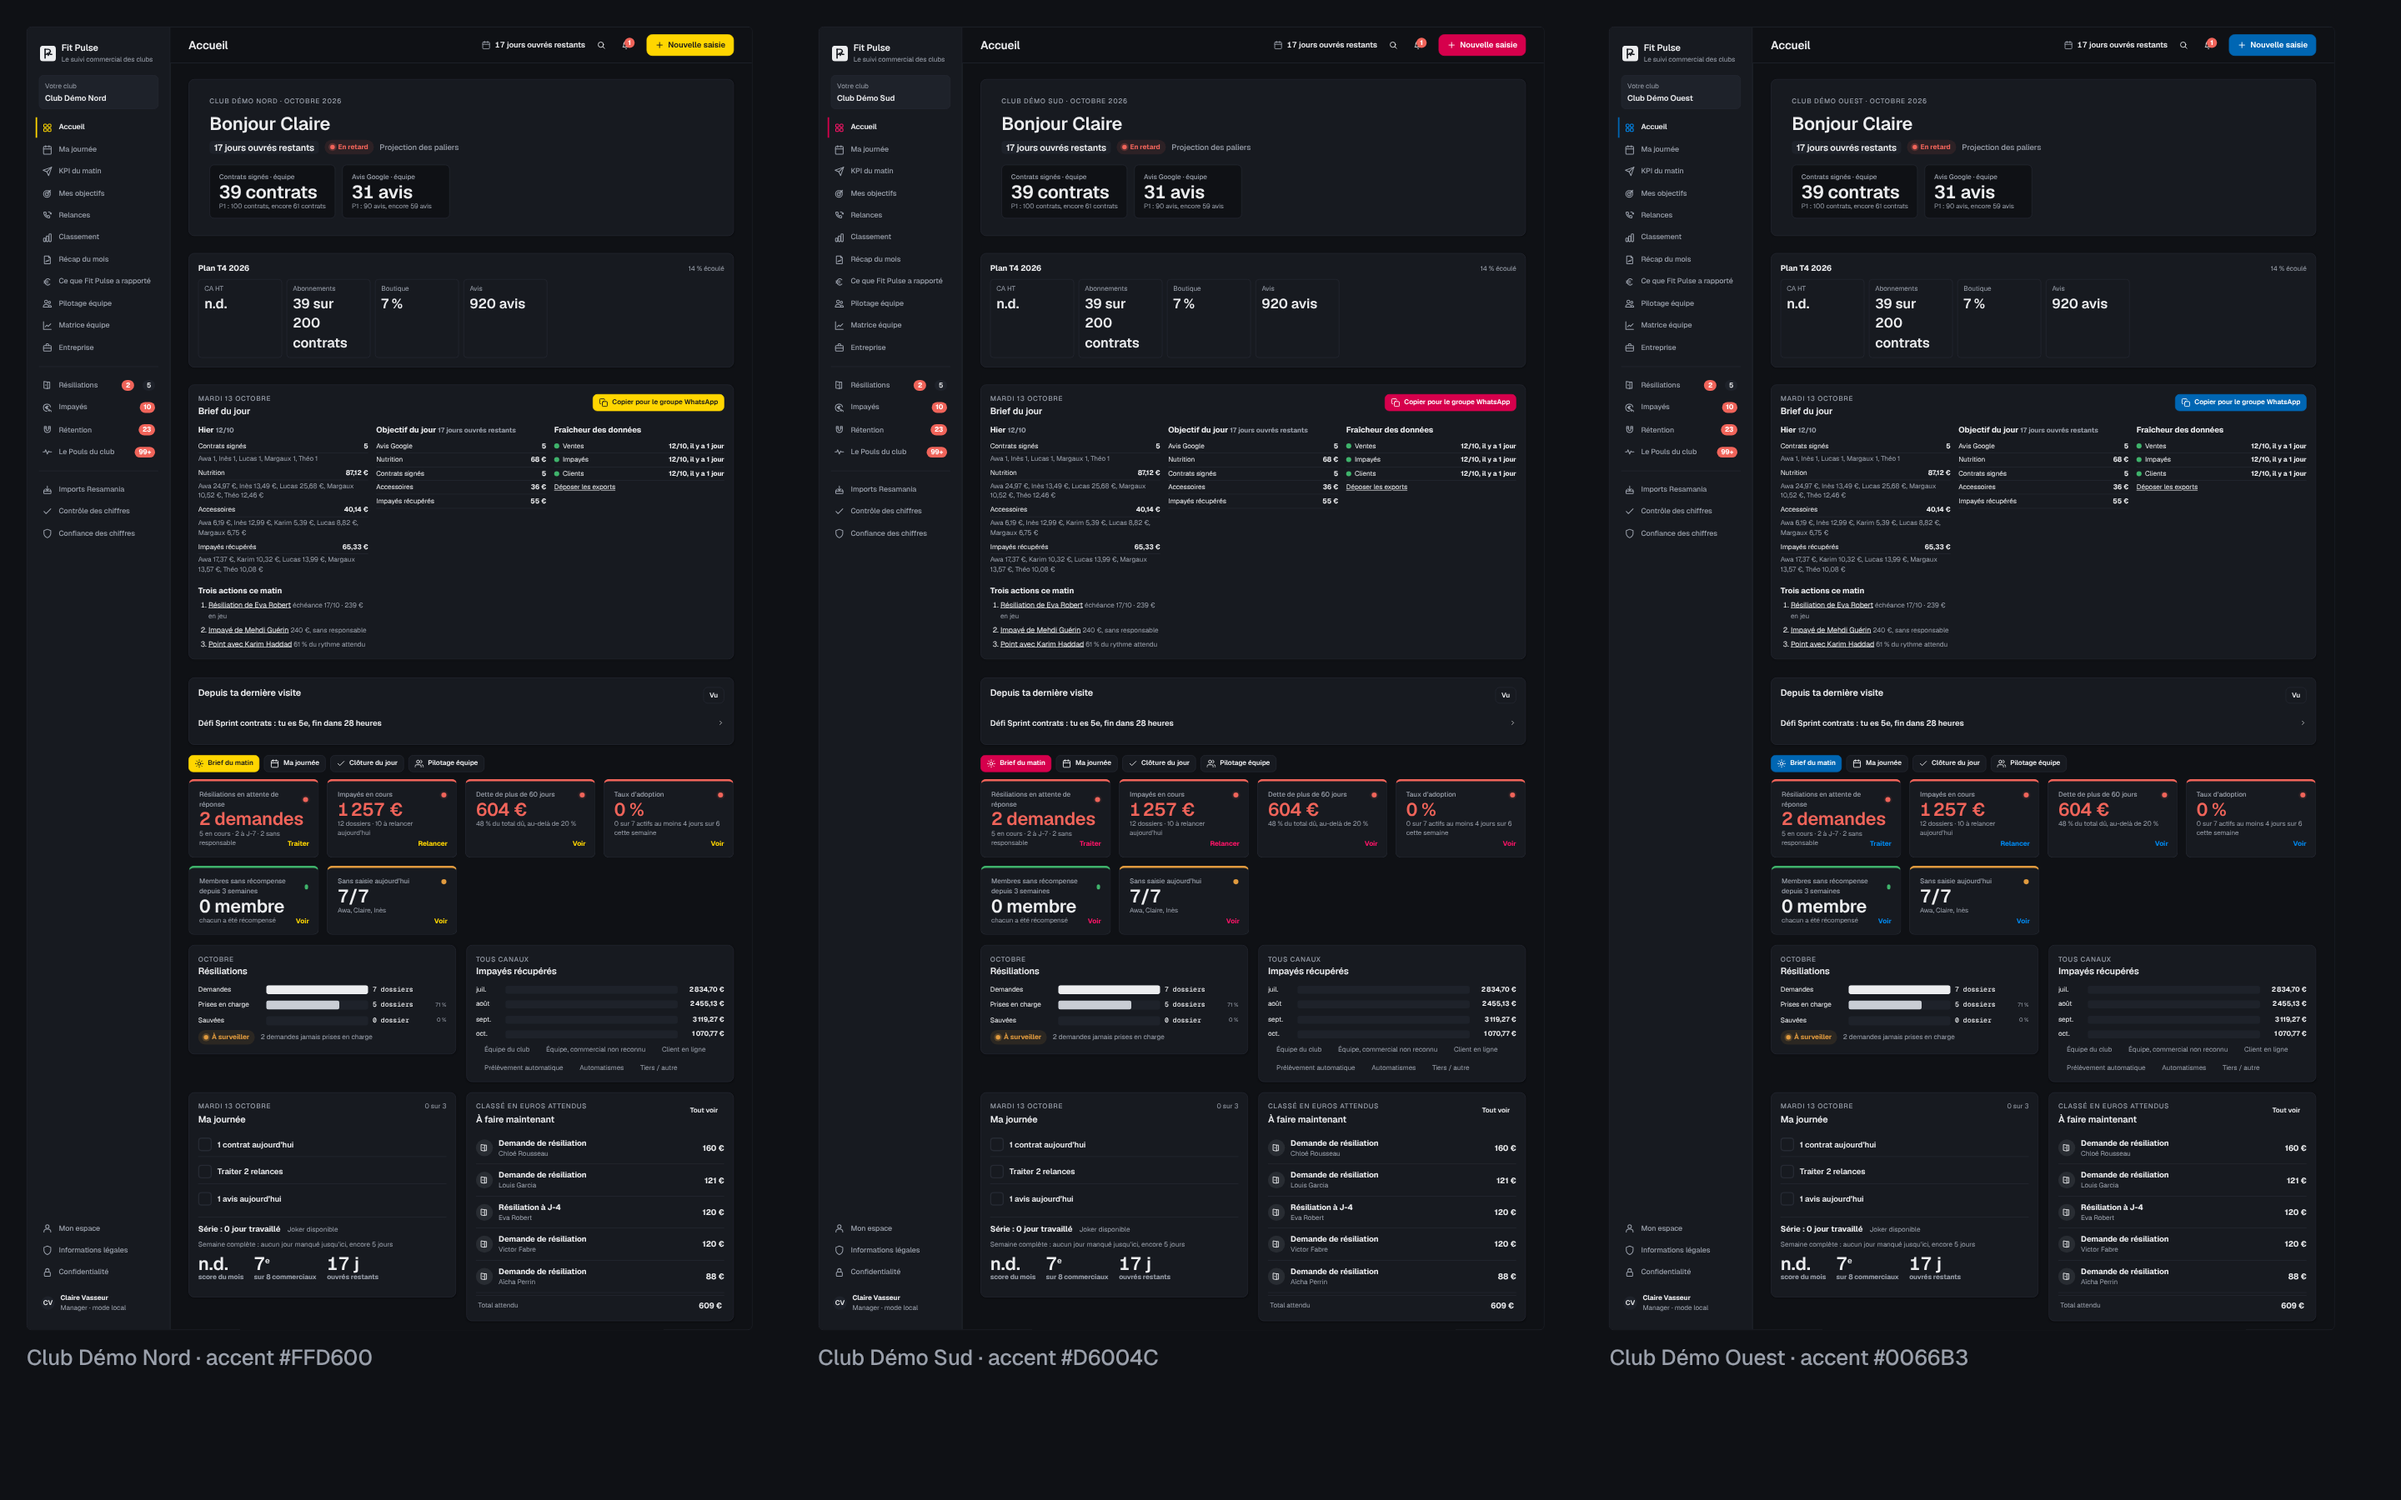
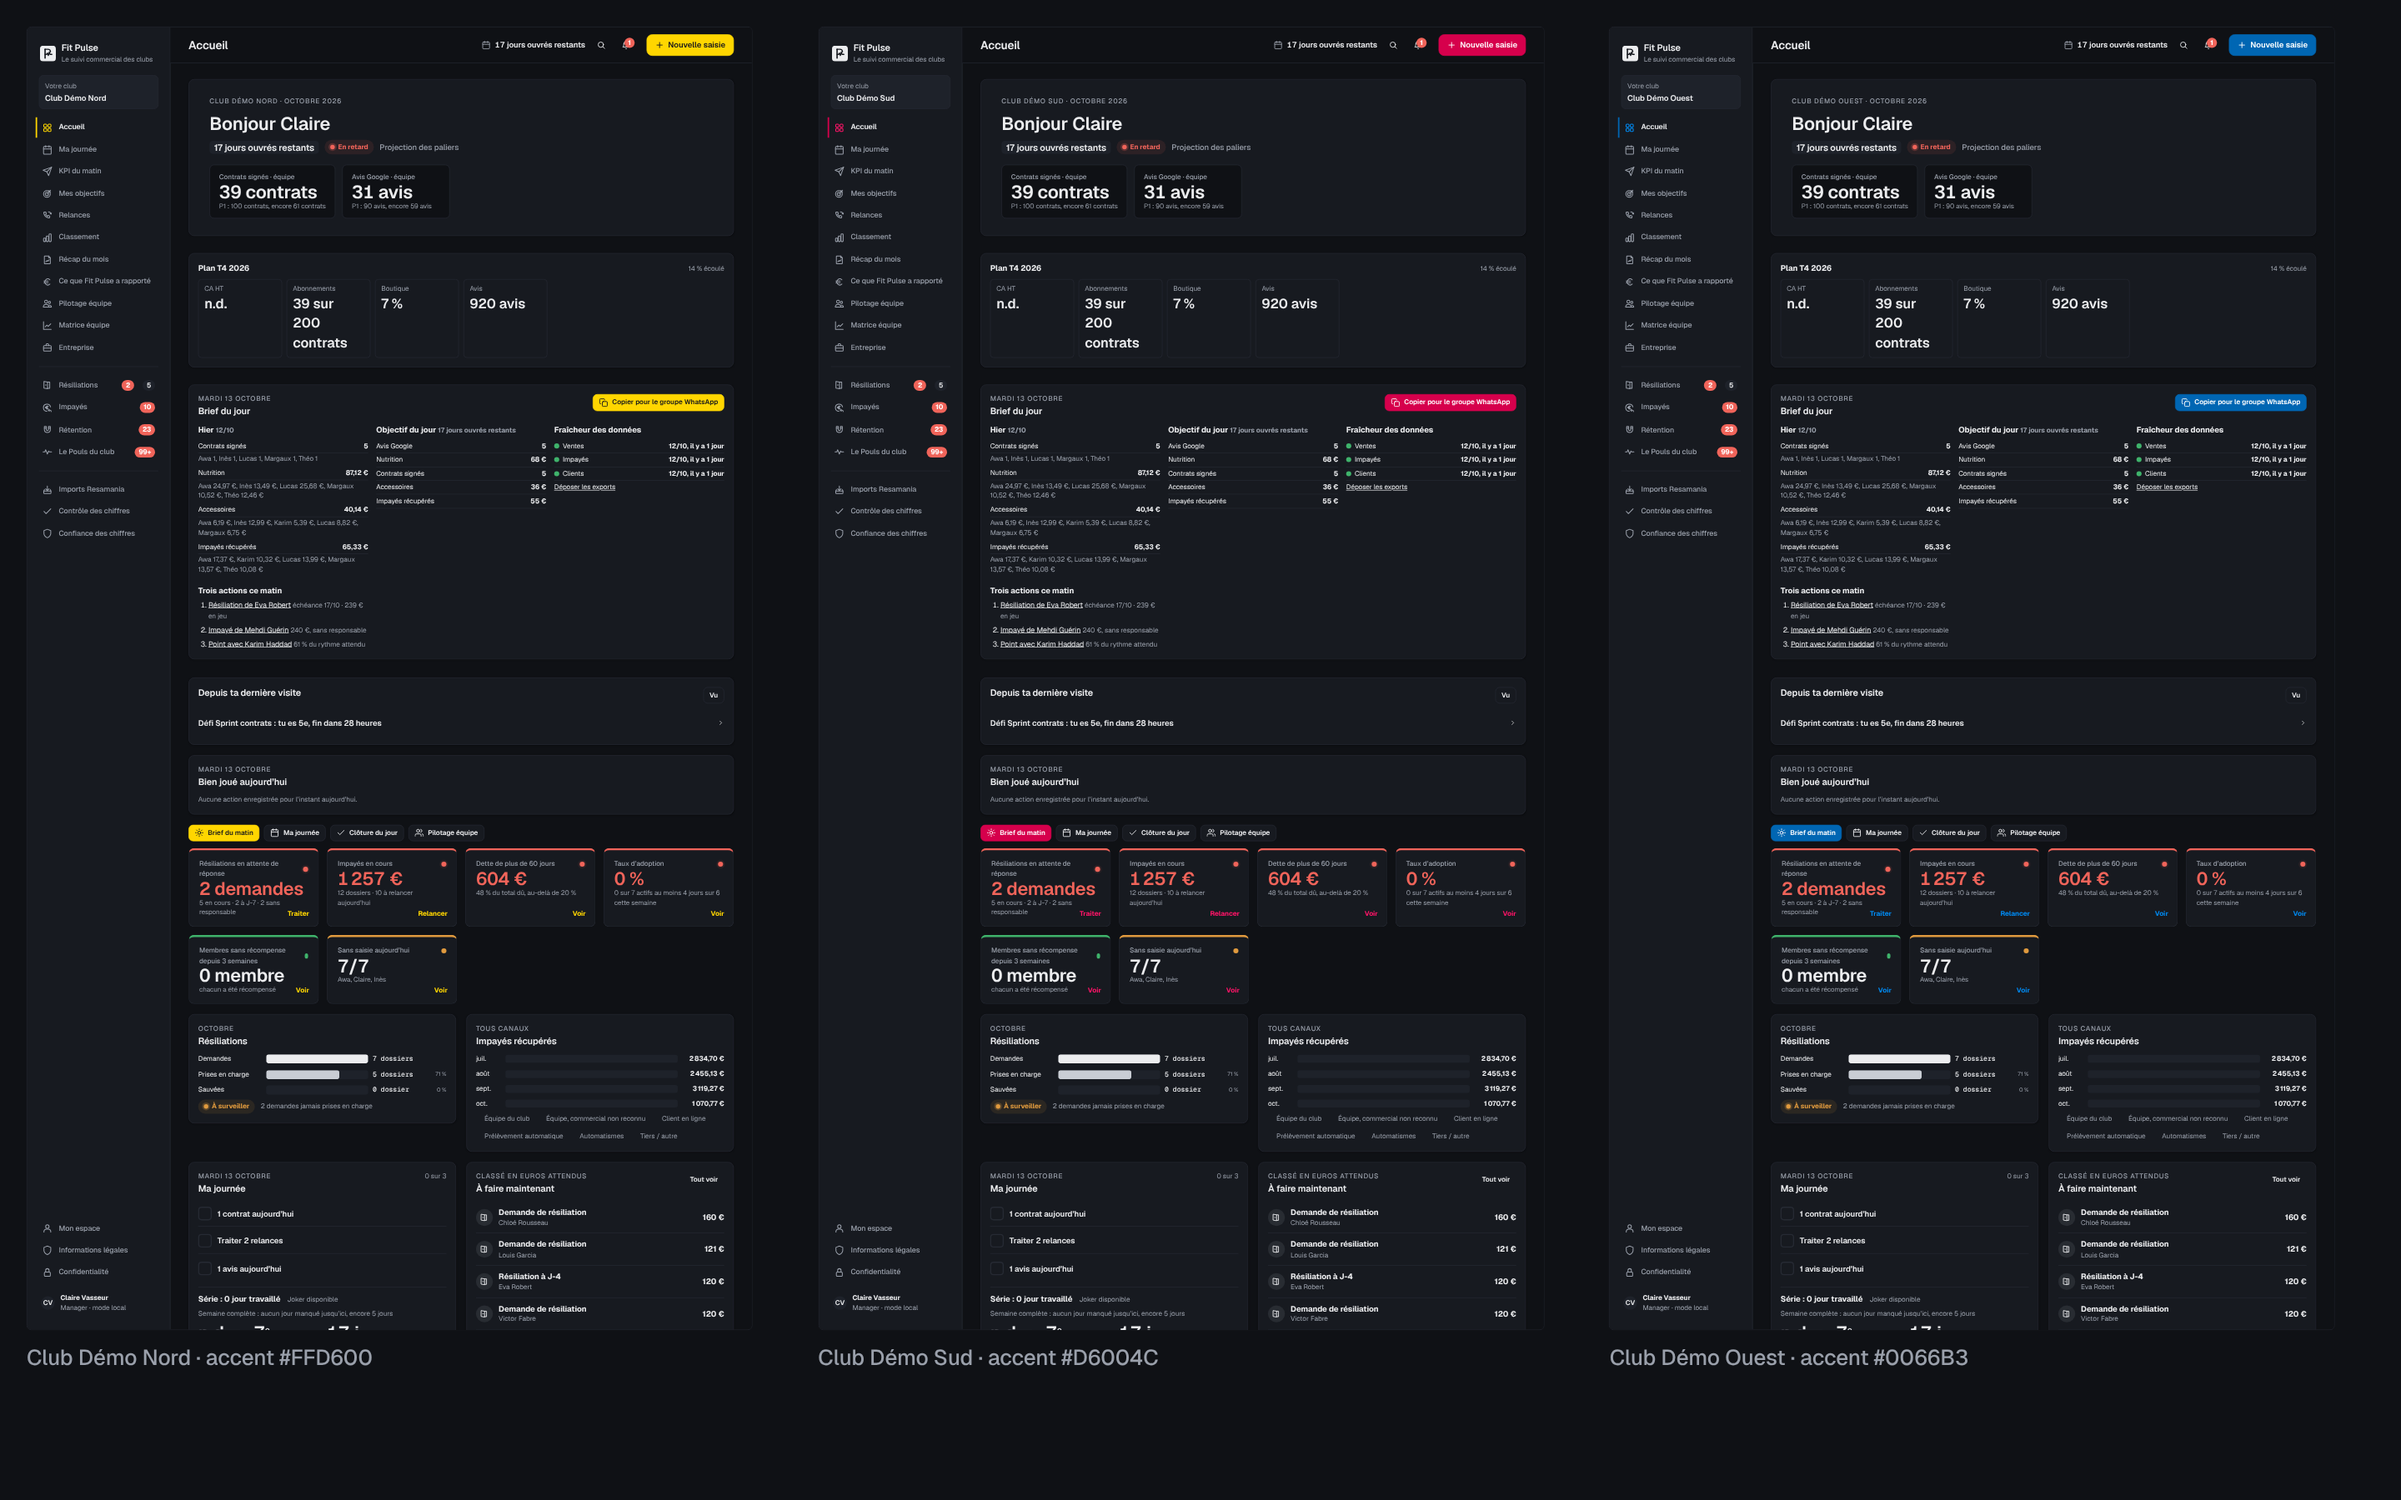
Version 2026.10.10 : journal, règles kudos sans doublon, lint
Claude-Session: https://claude.ai/code/session_01CJRNhJB98QJFn8u6aP8R2r

diff --git a/club/recette.js b/club/recette.js
@@ -5,7 +5,7 @@
 // ?demo=1 puis Lancer la démo) ; chaque fonction renvoie true ou false et
 // ne laisse aucune trace : elle travaille sur une copie, puis rend l'état.
 //   1. checkFilFiltrable()          le fil se filtre par type (puces et réglages)
-//   2. checkBandeauReglable()       le bandeau en direct suit les réglages du fil
+//   2. checkBandeauReglable()       les alertes en direct suivent les réglages du fil
 //   3. checkRangVoisin()            un membre voit ses voisins de classement
 //   4. checkLigue()                 ligue de la semaine : groupes de 8 à 12, clubs mélangés
 //   5. checkObjectifsJour()         toujours 3 objectifs du jour
@@ -42,7 +42,7 @@ function checkFilFiltrable() {
 function checkBandeauReglable() {
   return avecCopie(() => {
     commeVendeur(); const e = Object.values(S.entries).find(x => x.source === 'manual' && x.userId !== ME.id && x.clubId === CLUB.id && x.kpiId === 'contrats'); if (!e) return false;
-    const t = liveTexte(e); if (!t || /[–—]|\p{Extended_Pictographic}/u.test(t)) return false;
+    const t = liveTexte(e); if (!t || /[\u2013\u2014]|\p{Extended_Pictographic}/u.test(t)) return false;
     S.prefs[ME.id] = { ...(S.prefs[ME.id] || {}), v: 2, feed: { ...prefsOf().feed, kpis: { contrats: false } } }; REV++;
     return liveTexte(e) === null;
   });
@@ -109,7 +109,7 @@ function checkImageSansEuro() {
   return avecCopie(() => {
     commeVendeur(); const T = []; const ctx = new Proxy({}, { get: (o, k) => (k === 'fillText' ? (t => T.push(String(t))) : k === 'measureText' ? () => ({ width: 10 }) : () => {}), set: () => true });
     drawWrapCard(ME.id, addMonths(curMonth(), -1), { getContext: () => ctx });
-    return T.length > 4 && T.every(t => !/€|[–—]/.test(t));
+    return T.length > 4 && T.every(t => !/€|[\u2013\u2014]/.test(t));
   });
 }
 function checkPlafondNotifications() {

diff --git a/club/photo-defi.js b/club/photo-defi.js
@@ -9,7 +9,8 @@
 // record perso sur un KPI, nombre de relances) ou une cible libre ; tenu, il
 // donne le trophée personnel « Défi tenu » et, si je l'accepte, un événement
 // dans le fil. prefs.goal = { week, kpiId, target } ; historique prefs.goalHist[semaine].
-const PHOTO_COTE = 256, PHOTO_MAX_OCTETS = 60 * 1024;
+const PHOTO_COTE = 256;
+const PHOTO_MAX_OCTETS = 60 * 1024;
 const DEFI_RELANCES = '_relances';
 const MASCOTTES = { pouls: ['pouls', 'Pouls'], cible: ['target', 'Cible'], eclair: ['bolt', 'Éclair'], couronne: ['crown', 'Couronne'] };
 
@@ -84,7 +85,7 @@ function defiDeLaSemaine(uid = ME.id, d = today()) { const g = uid === (ME && ME
 function defiAvancement(uid, clubId, g, d = today()) { const lundi = dateDeSemaine(g.week); return defiValeur(uid, clubId, g.kpiId, lundi, d < addDays(lundi, 6) ? d : addDays(lundi, 6)); }
 // Lundi d'une semaine ISO « AAAA-Wnn ».
 function dateDeSemaine(w) { const [a, n] = w.split('-W').map(Number); const j4 = new Date(a, 0, 4); const lundi1 = new Date(a, 0, 4 - ((j4.getDay() + 6) % 7)); return isoOf(new Date(lundi1.getFullYear(), lundi1.getMonth(), lundi1.getDate() + (n - 1) * 7)); }
-defiPersoCard = function () { // eslint-disable-line no-func-assign
+defiPersoCard = function () {
   const g = defiDeLaSemaine();
   if (!g) {
     const P = propositionsDefi();

diff --git a/club/partage.js b/club/partage.js
@@ -63,7 +63,7 @@ function drawWrapCard(uid, mk, canvas = document.createElement('canvas')) {
   const B = bilanPartage(uid, mk); const u = S.users[uid]; const W = 1080, H = 1350; canvas.width = W; canvas.height = H;
   const c = canvas.getContext('2d'); const police = FONT_PAIR === 'plex' ? '"IBM Plex Sans"' : 'Geist';
   c.fillStyle = '#111317'; c.fillRect(0, 0, W, H); c.fillStyle = '#F2C500'; c.fillRect(0, 0, W, 16);
-  const txt = (t, x, y, taille, coul = '#FFFFFF', poids = 600) => { c.fillStyle = coul; c.font = `${poids} ${taille}px ${police}, sans-serif`; c.fillText(String(t).replace(/[€–—]/g, ''), x, y); };
+  const txt = (t, x, y, taille, coul = '#FFFFFF', poids = 600) => { c.fillStyle = coul; c.font = `${poids} ${taille}px ${police}, sans-serif`; c.fillText(String(t).replace(/[€\u2013\u2014]/g, ''), x, y); };
   txt('Fit Pulse', 80, 130, 40, '#F2C500', 700); txt(`Bilan de ${monthLabel(mk).toLowerCase()}`, 80, 200, 44, '#C9CCD3', 500);
   txt(fullName(u), 80, 290, 72, '#FFFFFF', 700);
   bilanLignes(B).forEach(([l, v], i) => { const y = 430 + i * 140; c.fillStyle = '#1C1F25'; c.fillRect(80, y - 70, W - 160, 112); txt(l, 120, y, 34, '#C9CCD3', 500); c.textAlign = 'right'; txt(v, W - 120, y + 8, 52, '#FFFFFF', 700); c.textAlign = 'left'; });

diff --git a/club/ligues.js b/club/ligues.js
@@ -13,8 +13,13 @@
 //   S.clubs[cid].leagueOptIn (réglage du manager, coché par défaut)
 const DIVISIONS = ['bronze', 'argent', 'or', 'platine'];
 const DIV_LABEL = { bronze: 'Bronze', argent: 'Argent', or: 'Or', platine: 'Platine' };
-const LIGUE_MIN = 8, LIGUE_MAX = 12, LIGUE_MONTENT = 3, LIGUE_DESCENDENT = 2, LIGUE_ACTION_MAX = 300;
-const SAISON_SEMAINES = 4, SAISON_ORIGINE = '2026-01-05'; // un lundi : saison 1 = 4 semaines à partir de cette date
+const LIGUE_MIN = 8;
+const LIGUE_MAX = 12;
+const LIGUE_MONTENT = 3;
+const LIGUE_DESCENDENT = 2;
+const LIGUE_ACTION_MAX = 300;
+const SAISON_SEMAINES = 4;
+const SAISON_ORIGINE = '2026-01-05'; // un lundi : saison 1 = 4 semaines à partir de cette date
 
 const clubEnLigue = cid => !!S.clubs[cid] && S.clubs[cid].leagueOptIn !== false;
 const membreLigue = uid => ((S.leagueMember || {})[uid]) || null;

diff --git a/club/core.js b/club/core.js
@@ -11,7 +11,7 @@
 // Configuration du déploiement (config.js). Repli sur les anciens noms window.PARKPULSE_* pour une installation existante.
 const CFG = window.FITPULSE_CONFIG || { firebase: window.PARKPULSE_FIREBASE, club: window.PARKPULSE_CLUB, assets: window.PARKPULSE_ASSETS, demo: window.PARKPULSE_DEMO, mailAuto: window.PARKPULSE_MAIL_AUTO };
 CFG.assets = CFG.assets || {};
-const APP = { name: TXT.app.nom, tagline: TXT.app.accroche, version: '2026.10.9' };
+const APP = { name: TXT.app.nom, tagline: TXT.app.accroche, version: '2026.10.10' };
 // ── Le client (S.tenant) : nom, enseigne, logo, couleurs, société, panier moyen ──
 // Saisi à la création du club (formulaire de départ), modifiable dans Club et réglages.
 // Aucune valeur par défaut ne cite une enseigne, une ville ou une personne.

diff --git a/club/kudos.js b/club/kudos.js
@@ -67,7 +67,7 @@ function coeurCard(mk) {
 }
 ACTIONS.coeurChoisir = el => { if (!isManager()) return; const v = ($('#coeur-u') || {}).value || null; db.set(['clubs', CLUB.id, 'coeur', el.dataset.mk], v); toast(v ? `Coup de coeur : ${S.users[v].first}` : 'Coup de coeur retiré : 0 membre'); };
 const MEM_CARNETS = memCarnets;
-memCarnets = function () { return coeurCard(UI.recMonth || addMonths(curMonth(), -1)) + MEM_CARNETS(); }; // eslint-disable-line no-func-assign
+memCarnets = function () { return coeurCard(UI.recMonth || addMonths(curMonth(), -1)) + MEM_CARNETS(); };
 // Bravo des collègues : 3 par jour au plus et par personne (fil et chat).
 for (const act of ['react', 'chatReact']) {
   const avant = ACTIONS[act];

diff --git a/club/CHANGELOG.md b/club/CHANGELOG.md
@@ -1,5 +1,13 @@
 # Journal des versions de Fit Pulse
 
+## 2026.10.10 (octobre 2026)
+- Ligues hebdomadaires du réseau : bronze, argent, or, platine ; groupes de 8 à 12 commerciaux, clubs mélangés ; 3 montent, 2 descendent ; saisons de 4 semaines ; Classement > Ma ligue ; un club peut ne pas participer, chacun peut masquer son nom hors de son club.
+- Duels de clubs d'une semaine comparés au pourcentage de l'objectif, carte Duel en cours, trophée Duel gagné ; défis d'équipe à objectif commun (Classement > Défis).
+- Félicitations du manager en 2 taps (Bien joué aujourd'hui), épinglables 24 h, comptées au profil ; Coup de coeur du manager ; 3 bravos par jour entre collègues ; rappel du vendredi.
+- Réactions Bravo, Fort, Merci (icônes au trait, anciennes réactions conservées) ; commentaires courts sous le fil ; bilan du mois partagé à l'équipe et image sans aucun montant.
+- Photo de profil (60 Ko au plus), mascotte du tableau de bord, défi de la semaine en 3 propositions et trophée Défi tenu.
+- Démonstration commerciale en 6 écrans (#/demo-commerciale) et recette de 10 vérifications exécutables dans la console.
+
 ## 2026.10.9 (octobre 2026)
 - Préférences du compte en version 2 (prefsOf, setPrefPath), suivies d'un appareil à l'autre : thème, accueil, ordre des indicateurs par club, fil, sons, vibrations, animations, heures calmes ; migration unique de l'ancien format ; carte Mon appli dans Profil.
 - Accueil personnalisable : cartes choisies et ordonnées par chacun (feuille Personnaliser, Revenir à l'accueil conseillé) ; déplacement au doigt par appui long, à la souris et au clavier, aussi pour les indicateurs du tableau de bord.
